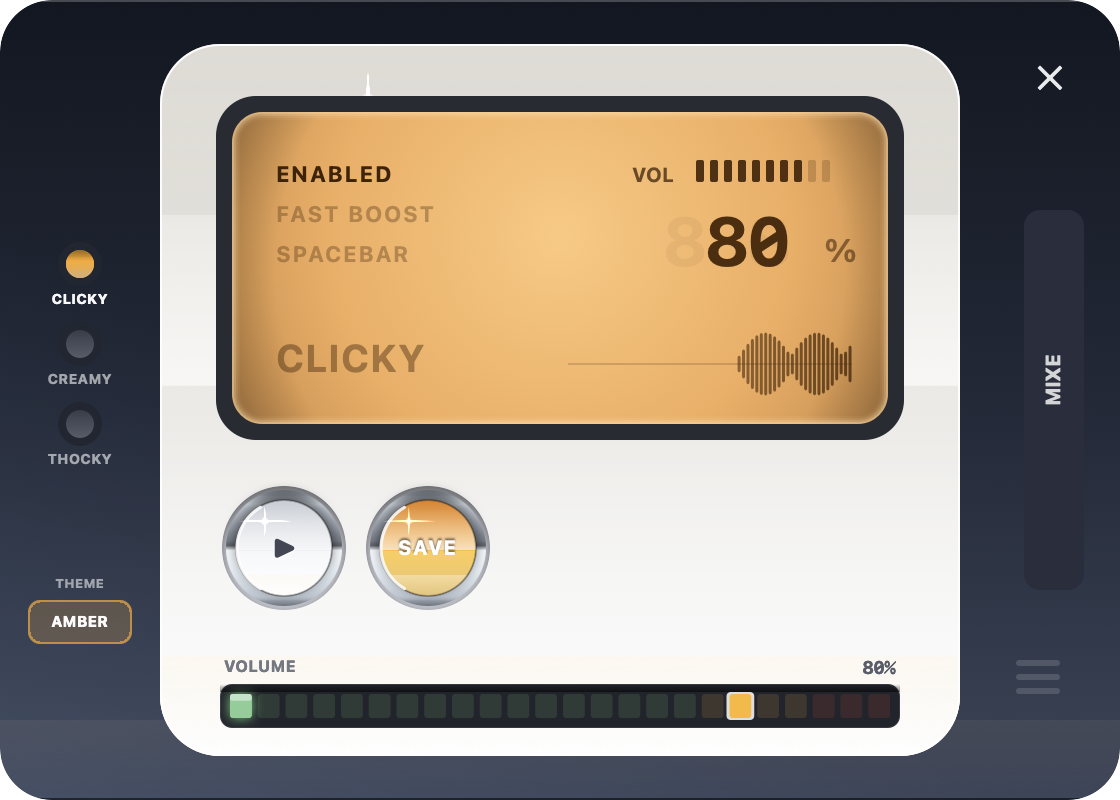
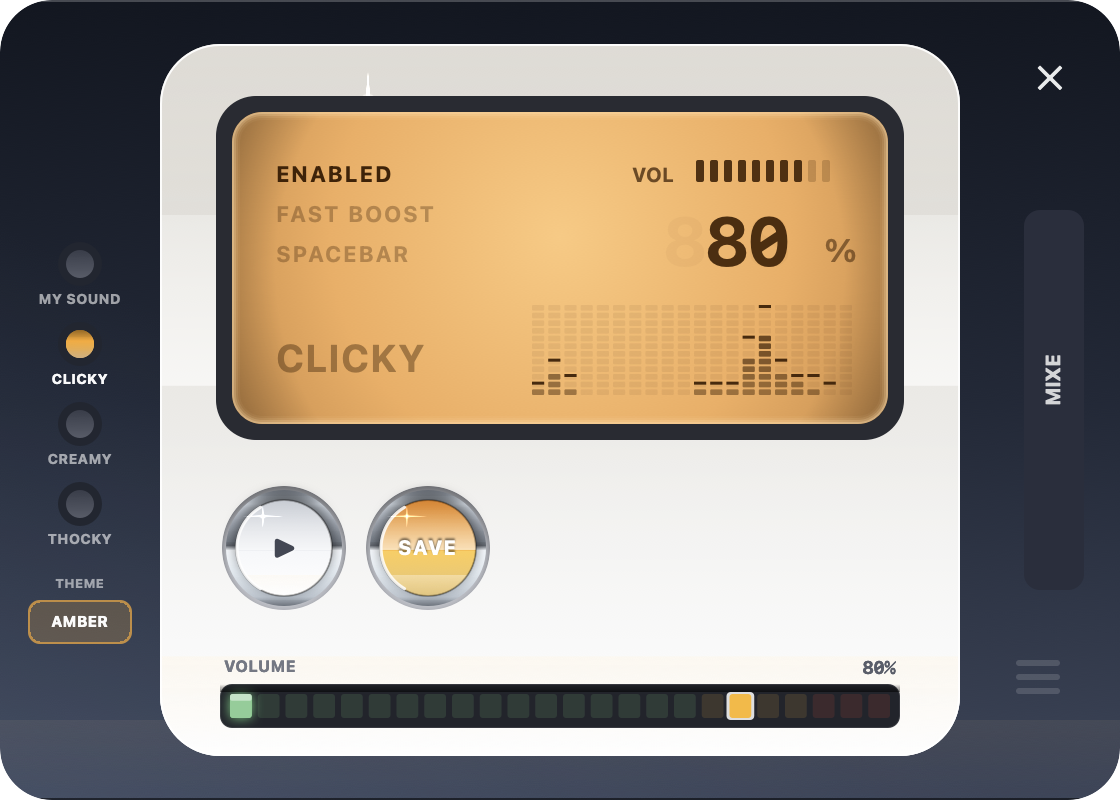
Add spectrum analyser driven by real audio
Replaces the waveform strip with a proper analyser: quantised bars with
peak-hold caps that hang ~12 frames then fall with acceleration. The caps
are what make it read as an analyser rather than a bar chart.

Band content is measured from the loaded pack's actual sample, not faked.
Goertzel per band rather than an FFT — we only need ~20 magnitudes, and
Goertzel is O(n) per band with no transform setup or power-of-two padding.
Bands are spaced logarithmically from 80Hz so they spread across the range
instead of bunching low, then normalised per pack so every sound fills the
display. Cached per pack since the sample doesn't change until it does.

Ballistics are fast-attack/slow-release like real analysers, with a small
per-band phase offset so the bars don't move as one block. Typing charges
the drive; it bleeds off each frame so bars settle rather than staying
pinned.

Also: glint now draws before the button label — it was cutting across the
SAVE text — and the unlit seven-segment ghost dropped to 0.035 alpha,
where it stops reading as a digit.

diff --git a/Sources/Klack/PlasticSkinViews.swift b/Sources/Klack/PlasticSkinViews.swift
@@ -607,7 +607,7 @@ final class BacklitDisplayView: NSView {
         let segFont = Plastic.segmentFont(size: 34)
         NSAttributedString(string: "888", attributes: [
             .font: segFont,
-            .foregroundColor: ink.withAlphaComponent(0.06),
+            .foregroundColor: ink.withAlphaComponent(0.035),
         ]).draw(at: NSPoint(x: 216, y: 44))
 
         let padded = String(repeating: " ", count: max(0, 3 - bigValue.count)) + bigValue
@@ -854,6 +854,100 @@ final class KnobControl: NSControl {
     }
 }
 
+/// Spectrum analyser: quantised bars with peak-hold caps that hang and then
+/// fall. The caps are the detail that makes it read as an analyser rather than
+/// a bar chart — they mark recent maxima and drop under gravity.
+final class SpectrumView: NSView {
+    override var isFlipped: Bool { true }
+
+    /// Band energies of the current sound, 0...1.
+    var bands: [Float] = [] {
+        didSet {
+            if levels.count != bands.count {
+                levels = [CGFloat](repeating: 0, count: bands.count)
+                peaks = [CGFloat](repeating: 0, count: bands.count)
+                peakAge = [CGFloat](repeating: 0, count: bands.count)
+            }
+        }
+    }
+    /// How hard the user is typing; scales the whole analyser.
+    var drive: CGFloat = 0
+
+    private var levels: [CGFloat] = []
+    private var peaks: [CGFloat] = []
+    private var peakAge: [CGFloat] = []
+    private var rng = SystemRandomNumberGenerator()
+
+    /// Advance one frame: bars chase their target, caps hang briefly then fall
+    /// with acceleration.
+    func step() {
+        guard !bands.isEmpty else { return }
+        for i in 0..<bands.count {
+            // A little per-band jitter so the bars don't move as one block.
+            let wobble = 1.0 + 0.22 * sin(MotionClock.shared.phase * (2.6 + CGFloat(i) * 0.31))
+            let target = CGFloat(bands[i]) * drive * wobble
+
+            // Fast attack, slow release — standard analyser ballistics.
+            if target > levels[i] {
+                levels[i] += (target - levels[i]) * 0.55
+            } else {
+                levels[i] += (target - levels[i]) * 0.16
+            }
+            levels[i] = min(1, max(0, levels[i]))
+
+            if levels[i] >= peaks[i] {
+                peaks[i] = levels[i]
+                peakAge[i] = 0
+            } else {
+                peakAge[i] += 1
+                // Hang for ~12 frames, then accelerate downward.
+                if peakAge[i] > 12 {
+                    peaks[i] -= 0.004 * (peakAge[i] - 12)
+                    peaks[i] = max(levels[i], peaks[i])
+                }
+            }
+        }
+        needsDisplay = true
+    }
+
+    override func draw(_ dirtyRect: NSRect) {
+        guard !levels.isEmpty else { return }
+        let ink = Theme.current.displayInk
+        let n = levels.count
+        let gap: CGFloat = 2
+        let barW = (bounds.width - gap * CGFloat(n - 1)) / CGFloat(n)
+        // Quantised into cells, the way a hardware analyser is built.
+        let rows = 12
+        let cellH = bounds.height / CGFloat(rows)
+
+        for i in 0..<n {
+            let x = CGFloat(i) * (barW + gap)
+            let lit = Int((levels[i] * CGFloat(rows)).rounded())
+
+            for r in 0..<rows {
+                let y = bounds.height - CGFloat(r + 1) * cellH
+                let cell = NSRect(x: x, y: y + 0.5, width: barW, height: cellH - 1)
+                if r < lit {
+                    // Brighter toward the top of each bar.
+                    let heat = 0.45 + 0.5 * CGFloat(r) / CGFloat(rows)
+                    ink.withAlphaComponent(heat).setFill()
+                } else {
+                    ink.withAlphaComponent(0.07).setFill()
+                }
+                NSBezierPath(roundedRect: cell, xRadius: 0.5, yRadius: 0.5).fill()
+            }
+
+            // Peak-hold cap.
+            let peakRow = min(rows - 1, Int((peaks[i] * CGFloat(rows)).rounded()))
+            if peakRow > 0 {
+                let y = bounds.height - CGFloat(peakRow + 1) * cellH
+                ink.withAlphaComponent(0.95).setFill()
+                NSRect(x: x, y: y + 0.5, width: barW, height: 1.5).fill()
+            }
+        }
+    }
+}
+
 /// Segmented LED level meter, used for volume. Reads like a hardware VU
 /// ladder: green through the working range, amber as it climbs, red at the
 /// top. Click or drag anywhere along it to set the level.
@@ -1086,7 +1180,15 @@ final class RoundButton: NSButton {
         Plastic.arc(center: NSPoint(x: rect.midX, y: rect.midY), radius: r - 0.5,
                  fromDeg: -150, toDeg: -30, color: NSColor(white: 1, alpha: 0.85), width: 1.6)
 
-        // 5. Label.
+        // 5. Glint on the gloss peak — drawn before the label so the spikes
+        // never cut across the text.
+        if !pressed {
+            Plastic.drawGlint(at: NSPoint(x: rect.minX + rect.width * 0.28,
+                                          y: rect.minY + rect.height * 0.17),
+                              length: r * 0.42, alpha: 0.38)
+        }
+
+        // 6. Label.
         let text = glyph.isEmpty ? title : glyph
         let attrs: [NSAttributedString.Key: Any] = [
             .font: NSFont.systemFont(ofSize: glyph.isEmpty ? 10 : 15, weight: .bold),
@@ -1104,12 +1206,6 @@ final class RoundButton: NSButton {
         embossed.draw(at: NSPoint(x: c.x - size.width / 2,
                                   y: c.y - size.height / 2 + (pressed ? 1 : 0)))
 
-        // 6. Glint on the gloss peak.
-        if !pressed {
-            Plastic.drawGlint(at: NSPoint(x: rect.minX + rect.width * 0.30,
-                                          y: rect.minY + rect.height * 0.22),
-                              length: r * 0.55, alpha: 0.45)
-        }
     }
 
     override func mouseDown(with event: NSEvent) {

diff --git a/Sources/Klack/ShowcaseWindowController.swift b/Sources/Klack/ShowcaseWindowController.swift
@@ -20,7 +20,7 @@ final class ShowcaseWindowController: NSWindowController, NSWindowDelegate {
     private var onClosed: (() -> Void)?
 
     private var display: BacklitDisplayView!
-    private var waveform: WaveformView!
+    private var spectrum: SpectrumView!
     private var volumeMeter: LevelMeterControl!
     private var volumeReadout: NSTextField!
     private var trimKnobs: [String: KnobControl] = [:]
@@ -108,7 +108,7 @@ final class ShowcaseWindowController: NSWindowController, NSWindowDelegate {
         guard window?.isVisible == true else { return }
         // boost is 1.0 at normal speed, rising toward ~1.3 when typing fast.
         let intensity = min(1.0, max(0.2, (boost - 0.9) * 2.4))
-        waveform.pulse(intensity: intensity)
+        spectrum.drive = min(1.0, spectrum.drive + 0.30 + 0.30 * intensity)
 
         isBoosting = boost > 1.02
         lastWasSpace = isSpace
@@ -156,6 +156,10 @@ final class ShowcaseWindowController: NSWindowController, NSWindowDelegate {
         MotionClock.shared.subscribe { [weak self] in
             guard let self, self.window?.isVisible == true else { return }
             self.display.needsDisplay = true
+            // Typing charges the analyser; it bleeds off every frame so the
+            // bars settle rather than staying pinned.
+            self.spectrum.drive *= 0.94
+            self.spectrum.step()
             for entry in self.lamps where entry.lamp.isLit {
                 entry.lamp.needsDisplay = true
             }
@@ -300,8 +304,11 @@ final class ShowcaseWindowController: NSWindowController, NSWindowDelegate {
         bezel.addSubview(display)
 
         // Live activity trace, bottom-right — clear of the pack name.
-        waveform = WaveformView(frame: NSRect(x: 168, y: 108, width: 142, height: 36))
-        display.addSubview(waveform)
+        // Spectrum analyser across the lower display, showing the actual
+        // band content of the loaded sound pack.
+        spectrum = SpectrumView(frame: NSRect(x: 150, y: 96, width: 160, height: 46))
+        spectrum.bands = audioEngine?.currentSpectrum() ?? []
+        display.addSubview(spectrum)
     }
 
     private func buildControls(into plate: NSView) {
@@ -494,6 +501,8 @@ final class ShowcaseWindowController: NSWindowController, NSWindowDelegate {
         }
         audioEngine?.playKeyDown(isSpace: false)
 
+        spectrum.bands = audioEngine?.currentSpectrum() ?? []
+
         // Each pack carries its own colour scheme, so picking a sound restyles
         // the whole panel — the instrument ends up looking like what it sounds
         // like.
@@ -591,9 +600,11 @@ final class ShowcaseWindowController: NSWindowController, NSWindowDelegate {
         // Typing activity: bursts with gaps, so the trace looks like real use.
         let burst = sin(t * .pi * 14)
         if burst > -0.2 {
-            waveform.pulse(intensity: 0.3 + 0.65 * abs(sin(t * .pi * 22)))
+            spectrum.drive = 0.55 + 0.45 * abs(sin(t * .pi * 22))
+            spectrum.step()
         } else {
-            waveform.pulse(intensity: 0.02)
+            spectrum.drive *= 0.85
+            spectrum.step()
         }
 
         isBoosting = burst > 0.55
@@ -606,7 +617,8 @@ final class ShowcaseWindowController: NSWindowController, NSWindowDelegate {
     func simulateActivityForRender() {
         for i in 0..<26 {
             let t = CGFloat(i) / 26
-            waveform.pulse(intensity: 0.25 + 0.7 * abs(sin(t * 7)))
+            spectrum.drive = 0.25 + 0.7 * abs(sin(t * 7))
+            spectrum.step()
         }
         display.backlightBoost = 0.1
         display.needsDisplay = true

diff --git a/Sources/Klack/AudioEngine.swift b/Sources/Klack/AudioEngine.swift
@@ -96,6 +96,7 @@ final class ClickAudioEngine {
         Self.builtInProfileNames.contains(name) ? profilesRoot.appendingPathComponent(name) : Self.customProfileDirectory(named: name)
     }
 
+    private var spectrumCache: [String: [Float]] = [:]
     private var downBuffers: [AVAudioPCMBuffer] = []
     private var upBuffers: [AVAudioPCMBuffer] = []
     private var spaceDownBuffer: AVAudioPCMBuffer?
@@ -338,6 +339,58 @@ final class ClickAudioEngine {
         } else if let b = upBuffers.randomElement() {
             play(b)
         }
+    }
+
+    // MARK: Analysis
+
+    /// Band energies of the current pack's sample, for the spectrum display.
+    ///
+    /// Uses Goertzel per band rather than a full FFT: we only need a handful of
+    /// band magnitudes, and Goertzel is O(n) per band with no transform setup
+    /// or power-of-two padding. Cached per pack, since the sample doesn't
+    /// change until the pack does.
+    func currentSpectrum(bands: Int = 20) -> [Float] {
+        if let cached = spectrumCache[currentProfile], cached.count == bands {
+            return cached
+        }
+        guard let buffer = downBuffers.first,
+              let data = buffer.floatChannelData?[0] else {
+            return [Float](repeating: 0, count: bands)
+        }
+        let frameCount = Int(buffer.frameLength)
+        guard frameCount > 64 else { return [Float](repeating: 0, count: bands) }
+
+        let sampleRate = Float(buffer.format.sampleRate)
+        // Logarithmic spacing from 80Hz up — matches how the ear divides the
+        // range, so bars spread out instead of bunching at the bottom.
+        let lowHz: Float = 80
+        let highHz = min(Float(12_000), sampleRate / 2 - 100)
+        var out = [Float](repeating: 0, count: bands)
+
+        for b in 0..<bands {
+            let t = Float(b) / Float(max(1, bands - 1))
+            let freq = lowHz * powf(highHz / lowHz, t)
+            let k = 2 * Float.pi * freq / sampleRate
+            let coeff = 2 * cosf(k)
+            var s1: Float = 0, s2: Float = 0
+            for i in 0..<frameCount {
+                let s0 = data[i] + coeff * s1 - s2
+                s2 = s1
+                s1 = s0
+            }
+            let power = s1 * s1 + s2 * s2 - coeff * s1 * s2
+            let magnitude = sqrtf(max(0, power)) / Float(frameCount)
+            // Compress toward a decibel-ish curve so quiet bands stay visible.
+            out[b] = min(1, max(0, log10f(magnitude * 400 + 1) * 0.85))
+        }
+
+        // Normalise so every pack fills the display instead of some rendering
+        // as a flat line.
+        if let peak = out.max(), peak > 0.001 {
+            for i in 0..<out.count { out[i] = min(1, out[i] / peak) }
+        }
+        spectrumCache[currentProfile] = out
+        return out
     }
 
     // MARK: Live mixer support
